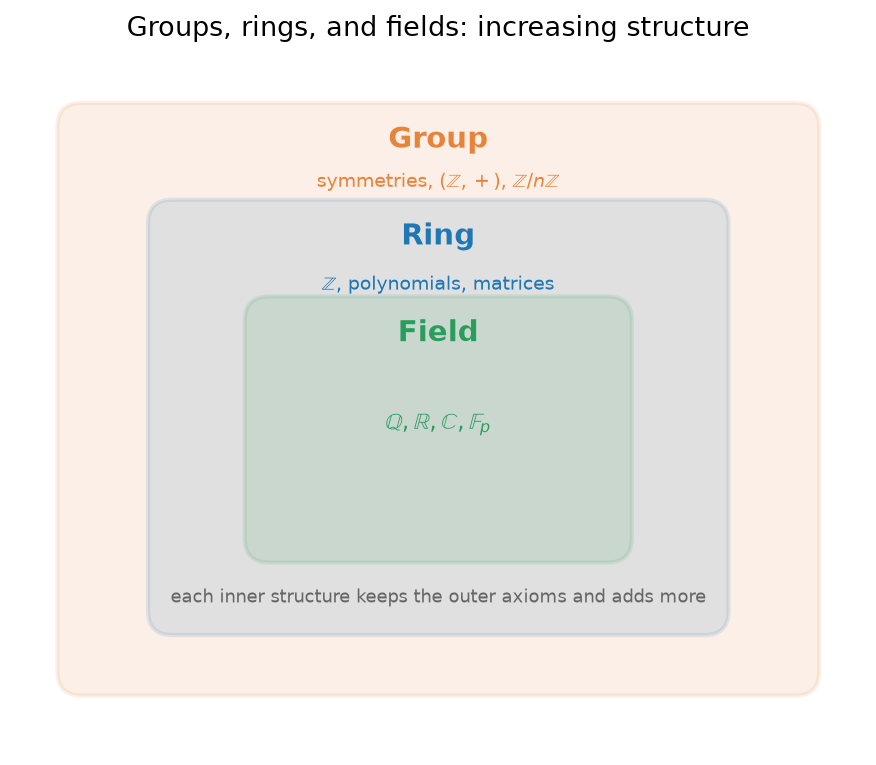
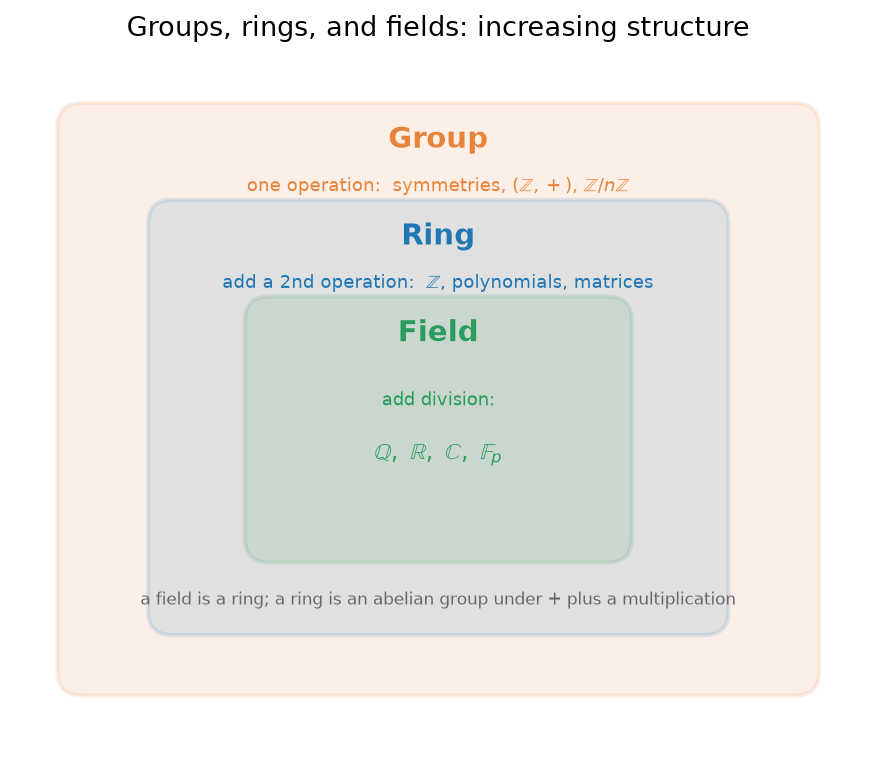
Fix correctness issues found in review of the new foundations pages
Adversarial review (one reviewer per page, recomputing every number)
confirmed number-bases is fully correct and surfaced small fixes:

number-systems:
- Completeness axiom was missing the 'nonempty' hypothesis (false for the
  empty set as stated).
- Reworded the non-sequitur 'q/q = 1 means every nonzero rational has an
  inverse' to the correct reason (p/q times q/p = 1).

algebraic-structures:
- Ring definition now includes a multiplicative identity 1, matching the
  field definition and the top-of-page axiom table (all examples already
  unital).
- Group inverse made two-sided (a*a^-1 = a^-1*a = e), which matters for
  the nonabelian examples that follow.
- Fixed the misleading 'each structure is a special case of the one
  before' framing: a field is a special ring, but a ring is not a special
  group (it has a second operation). Updated the diagram caption to
  match.

All derivations, examples, and arithmetic otherwise verified correct.
Build-clean, 0 KaTeX errors.

diff --git a/quartz/content/algebraic-structures.md b/quartz/content/algebraic-structures.md
@@ -78,7 +78,7 @@ The three patterns you meet first are the group, the ring, and the field. Each i
 
 ### Group
 
-A **group** is a set $G$ with one operation (call it $*$) satisfying three axioms: the operation is *associative*, there is an *identity* element $e$ with $e * a = a * e = a$, and every element $a$ has an *inverse* $a^{-1}$ with $a * a^{-1} = e$. That is all. If the operation is also commutative ($a * b = b * a$), the group is called **abelian** (after Niels Abel). A group is the minimal setting in which "undoing" always makes sense.
+A **group** is a set $G$ with one operation (call it $*$) satisfying three axioms: the operation is *associative*, there is an *identity* element $e$ with $e * a = a * e = a$, and every element $a$ has an *inverse* $a^{-1}$ with $a * a^{-1} = a^{-1} * a = e$. That is all. If the operation is also commutative ($a * b = b * a$), the group is called **abelian** (after Niels Abel). A group is the minimal setting in which "undoing" always makes sense.
 
 Examples:
 
@@ -89,7 +89,7 @@ Examples:
 
 ### Ring
 
-A **ring** is a set $R$ with *two* operations, $+$ and $\times$, such that $R$ is an abelian group under $+$ (giving $0$, negatives, commutativity of addition), multiplication is associative, and multiplication distributes over addition. What a ring does *not* require is multiplicative inverses, or even commutativity of multiplication. So a ring is a field with the multiplicative-inverse axiom (and possibly commutativity of $\times$) dropped.
+A **ring** is a set $R$ with *two* operations, $+$ and $\times$, such that $R$ is an abelian group under $+$ (giving $0$, negatives, commutativity of addition), multiplication is associative and has an identity element $1$ (with $1 \cdot a = a \cdot 1 = a$), and multiplication distributes over addition. What a ring does *not* require is multiplicative inverses, or even commutativity of multiplication. So a ring is a field with the multiplicative-inverse axiom (and possibly commutativity of $\times$) dropped.
 
 Examples:
 
@@ -115,9 +115,9 @@ Summary:
 | Ring | two ($+$, $\times$) | abelian group under $+$; $\times$ associative and distributes | $\mathbb{Z}$; $\mathbb{R}[x]$; $n\times n$ matrices; $\mathbb{Z}/n\mathbb{Z}$ |
 | Field | two ($+$, $\times$) | commutative ring; every nonzero element has a $\times$-inverse | $\mathbb{Q}$, $\mathbb{R}$, $\mathbb{C}$; $\mathbb{F}_p$ |
 
-The three sit in a strict hierarchy. Every field is a ring (it just satisfies extra axioms). Every ring is an abelian group under its addition (that is part of the definition of a ring). So each structure is a special case of the one before, gaining power by demanding more.
+The three are related, but not all by simple containment. Every field *is* a ring (it satisfies extra axioms: commutative multiplication, and inverses for nonzero elements). A ring, on the other hand, is not a special *kind* of group, because it carries a second operation that a group does not have; what is true is that every ring is an abelian group under its addition alone. So each step inward adds structure: a second operation takes you from a group to a ring, and multiplicative inverses take you from a ring to a field.
 
-![Nested hierarchy of algebraic structures: groups contain rings contain fields, each adding more axioms, with example sets labeled](./media/algebraic-structures-hierarchy.png)
+![Groups, rings, and fields drawn as levels of increasing structure: a ring is an abelian group under addition equipped with a second operation, and a field is a ring in which every nonzero element has a multiplicative inverse, with example sets labeled in each level](./media/algebraic-structures-hierarchy.png)
 
 ## Where these structures show up
 

diff --git a/quartz/content/number-systems.md b/quartz/content/number-systems.md
@@ -40,7 +40,7 @@ $$\mathbb{Q} = \left\{\, \frac{p}{q} \;\middle|\; p, q \in \mathbb{Z},\; q \neq 
 
 The number $\frac{p}{q}$ is read "$p$ over $q$." Two fractions name the same rational when they cross-multiply equally: $\frac{p}{q} = \frac{r}{s}$ exactly when $ps = qr$. So $\frac{1}{2} = \frac{2}{4} = \frac{3}{6}$, all the same point.
 
-Now every division by a nonzero number has an answer, because $q/q = 1$ means every nonzero rational has a multiplicative inverse. In the terms of [Algebraic Structures](./algebraic-structures), $\mathbb{Q}$ is the first system on our list that is a *field*: you can add, subtract, multiply, and divide (except by zero) and never leave the set.
+Now every division by a nonzero number has an answer, because every nonzero rational $p/q$ has a multiplicative inverse $q/p$ (their product is $\frac{p}{q}\cdot\frac{q}{p} = 1$). In the terms of [Algebraic Structures](./algebraic-structures), $\mathbb{Q}$ is the first system on our list that is a *field*: you can add, subtract, multiply, and divide (except by zero) and never leave the set.
 
 **Decimals: terminating and repeating.** Every rational, written as a decimal, either *terminates* or *eventually repeats* forever:
 
@@ -54,7 +54,7 @@ where the bar in $0.\overline{3}$ marks the block of digits that repeats without
 
 The symbol $\mathbb{R}$ is read "the reals." Informally, the reals are all the points on a continuous, gapless number line, the rationals *together with* every irrational number like $\sqrt{2}$, $\pi$, and $e$ that fills the holes.
 
-Making "gapless" precise is the whole content of the **completeness axiom**: every set of reals that is bounded above has a *least upper bound* inside $\mathbb{R}$. Completeness is what guarantees that $\sqrt{2}$ actually exists (it is the least upper bound of all rationals whose square is below $2$), and it is the foundation on which limits, continuity, derivatives, and integrals are built. The precise statement and its consequences are developed in [Real Analysis](./real-analysis).
+Making "gapless" precise is the whole content of the **completeness axiom**: every *nonempty* set of reals that is bounded above has a *least upper bound* inside $\mathbb{R}$. Completeness is what guarantees that $\sqrt{2}$ actually exists (it is the least upper bound of all rationals whose square is below $2$), and it is the foundation on which limits, continuity, derivatives, and integrals are built. The precise statement and its consequences are developed in [Real Analysis](./real-analysis).
 
 $\mathbb{R}$ is a field, like $\mathbb{Q}$, but it adds completeness, and that single extra property is what makes calculus possible.
 